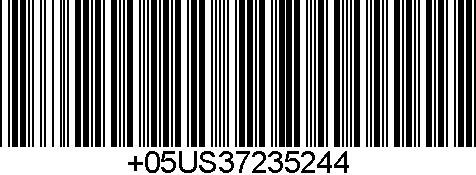
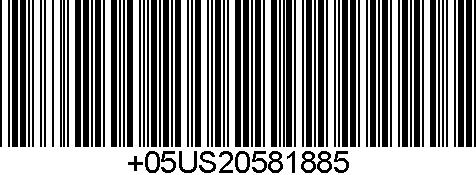
arreglado tamanio panel preview para que se vea bien el barcode

Changed region(s): [[0.4412, 0.0, 0.9412, 1.0], [0.3824, 0.0, 0.4706, 0.8571]]

diff --git a/src/controller/AddVehicleController.java b/src/controller/AddVehicleController.java
@@ -125,6 +125,7 @@ public class AddVehicleController {
         m.setComentary(coment);
         //Verificar existencia de tarifas para el tipo de vehiculo
         if (!MainController.bandsRateJpaController.queryByVehicleTypes(vehicleTypeIsSelected).isEmpty()) {
+            MainController.generateBarCode(m.getTicketCodification());
             MainController.entriesJpaController.create(m);
             MainController.ocupationController.sumOcupation(getVehicleTypeSelected(vehicleType).getPlaces());
             MainController.system.NewLogAction("Entry Vehicle", plate);
@@ -134,7 +135,6 @@ public class AddVehicleController {
             //actualizar el panel con la nueva entrada automaticamente
             DefaultTableModel entriesModel=TotalSearchOfEntries();
             MainController.mainView.setEntriesTableModel(entriesModel);
-            MainController.generateBarCode(m.getTicketCodification()); 
             InfoParkway aux=MainController.infoJpaController.findInfoParkway(idParkway);
             aux.setTicketCount(m.getTicket());
             MainController.infoJpaController.edit(aux,idParkway);
@@ -167,8 +167,7 @@ public class AddVehicleController {
                     String.valueOf(aux);   
         }
     }
-    
-    
+
     public static String getPlate() {
         return plate;
     }

diff --git a/src/view/PrintFrame.java b/src/view/PrintFrame.java
@@ -74,11 +74,13 @@ public class PrintFrame extends javax.swing.JFrame implements Printable {
         getContentPane().setLayout(layout);
         layout.setHorizontalGroup(
             layout.createParallelGroup(javax.swing.GroupLayout.Alignment.LEADING)
-            .addComponent(PrintPanel, javax.swing.GroupLayout.PREFERRED_SIZE, 498, javax.swing.GroupLayout.PREFERRED_SIZE)
+            .addComponent(PrintPanel, javax.swing.GroupLayout.PREFERRED_SIZE, 531, javax.swing.GroupLayout.PREFERRED_SIZE)
         );
         layout.setVerticalGroup(
             layout.createParallelGroup(javax.swing.GroupLayout.Alignment.LEADING)
-            .addComponent(PrintPanel, javax.swing.GroupLayout.PREFERRED_SIZE, 357, javax.swing.GroupLayout.PREFERRED_SIZE)
+            .addGroup(layout.createSequentialGroup()
+                .addComponent(PrintPanel, javax.swing.GroupLayout.PREFERRED_SIZE, 397, javax.swing.GroupLayout.PREFERRED_SIZE)
+                .addGap(0, 0, Short.MAX_VALUE))
         );
 
         pack();

diff --git a/src/view/PreviewEntryTicket.java b/src/view/PreviewEntryTicket.java
@@ -196,11 +196,11 @@ public class PreviewEntryTicket extends javax.swing.JPanel implements Printable 
         this.FootPage.setText(footPage);
     }
 
-    public void setBarCode() {
+    public void setBarCode() { 
         BarCodePanel.setLayout(new BorderLayout()); // Para que la imagen se agrande
         JLabel label = new JLabel();
-        BarCodePanel.add(label, BorderLayout.CENTER);
         label.setIcon(new ImageIcon("src/images/barcode.jpg"));
+        BarCodePanel.add(label, BorderLayout.CENTER);
     }
 
     /** This method is called from within the constructor to
